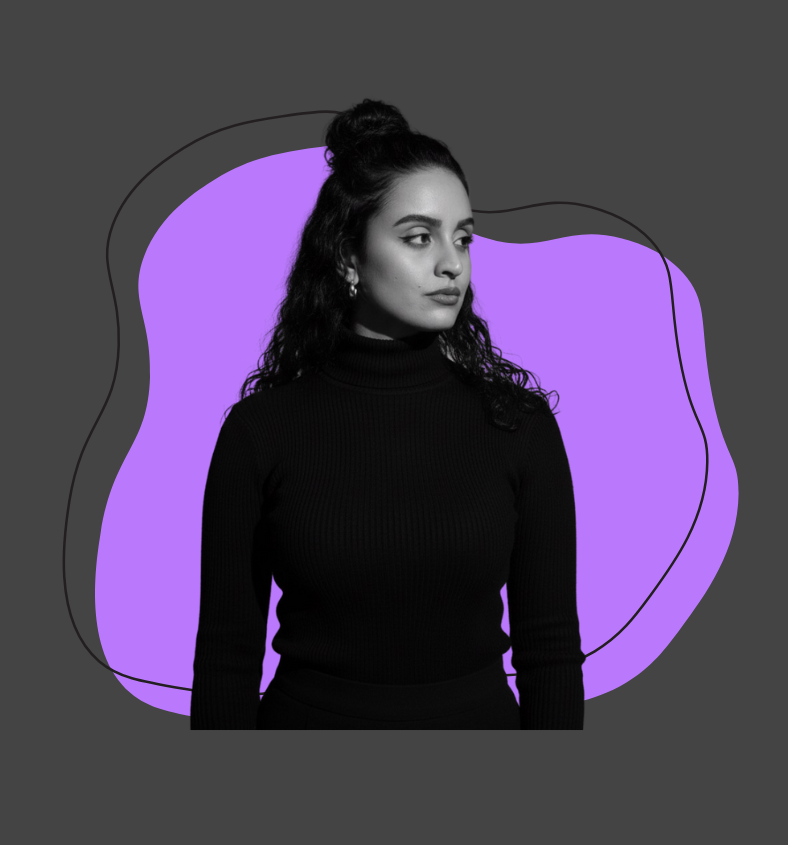
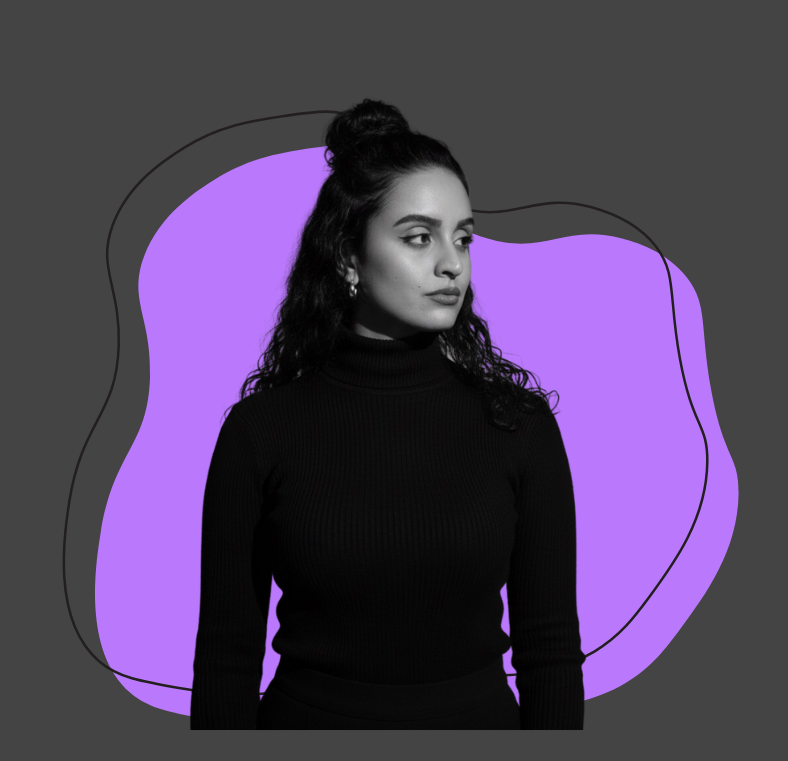
alteração gap figure e font size responsividade

diff --git a/css/responsive.css b/css/responsive.css
@@ -110,10 +110,15 @@
     align-items: center;
     padding: 60px 20px;
     margin-inline: 0;
+    gap: 2em;
   }
 
   .sobre-mim-texto {
     width: auto;
+  }
+
+  .container-index {
+    padding-bottom: 0px;
   }
 
   main figure {
@@ -334,6 +339,9 @@
 
   .icone-seta {
     display: none;
+  }
+  .contato-info li {
+    font-size: 1.2rem;
   }
 
   @media screen and (max-width: 450px) {
